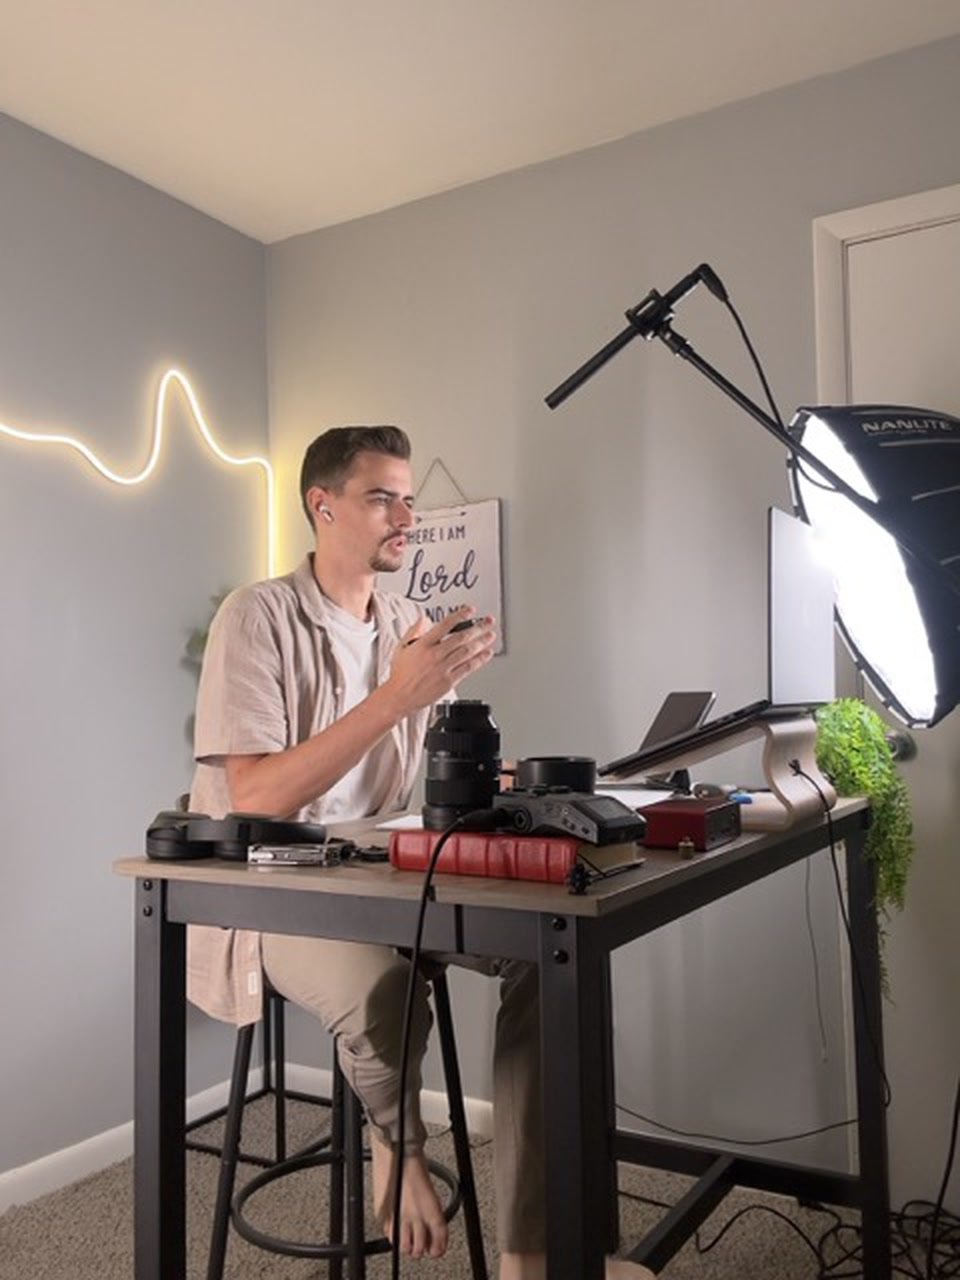
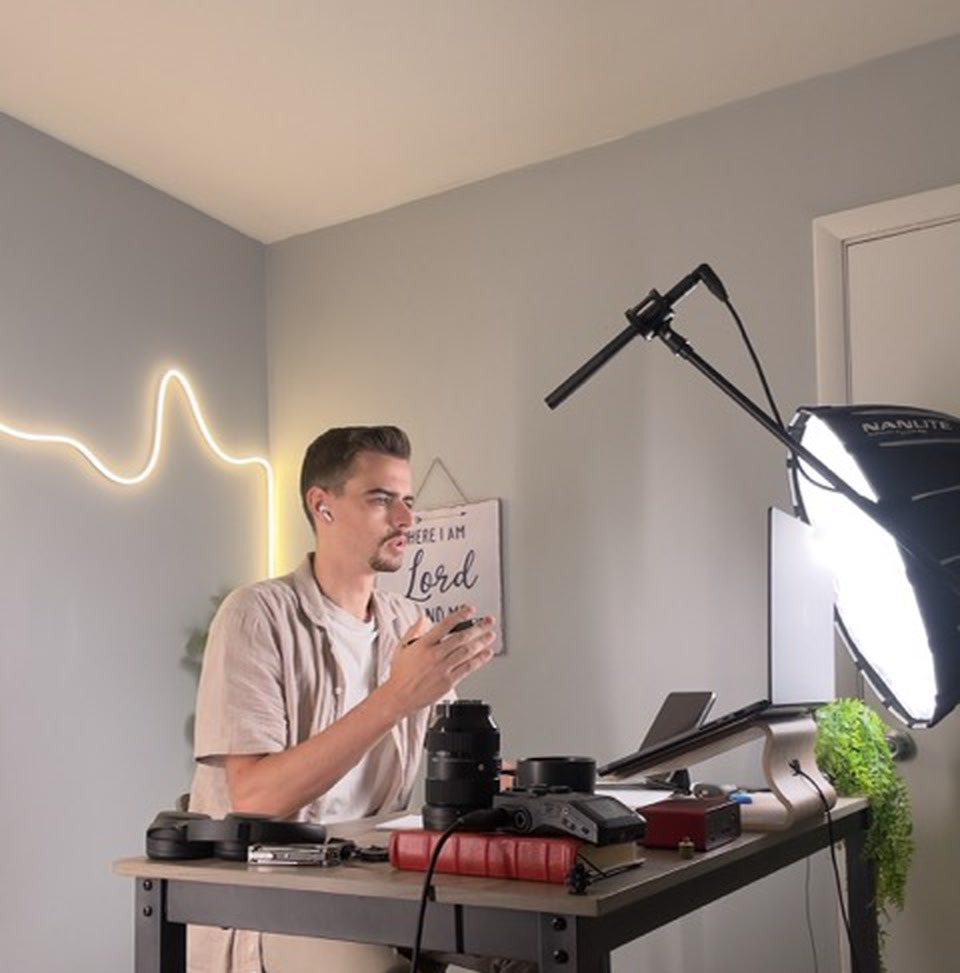
fix(resources): crop Tune-in photo so feet and stool are out
Replace tabor-speaking.jpg with the 960x973 desk crop Tabor asked for. Keep the same path and do not restore the full-length frame.

diff --git a/public/assets/site.css b/public/assets/site.css
@@ -379,13 +379,13 @@ textarea::placeholder{color:#72796f}
 .channel-links small{font-size:14px;color:var(--muted)}
 .channel-links>a:hover{color:var(--blue)}
 .watch-image{border-radius:var(--radius);overflow:hidden}
-.watch-image img{width:100%;aspect-ratio:3/4;object-fit:contain;object-position:center}
+.watch-image img{width:100%;aspect-ratio:960/973;object-fit:contain;object-position:center}
 .watch-image figcaption{padding:16px 0;font-size:14px;color:var(--muted)}
 
 @media(min-width:1700px){.hero-portrait{min-height:655px}}
 @media(max-width:1180px){.primary-nav{gap:22px}.wordmark{font-size:19px}.wordmark img{width:30px;height:30px}.header-shell{gap:18px}.button--small{gap:10px;padding-inline:13px;font-size:14px}.hero{gap:35px}.hero-portrait{min-height:540px}.hero h1{font-size:clamp(52px,5.4vw,68px)}.coaching-layout,.connection-layout,.teaser-layout{gap:50px}.pitch-surface{gap:45px}.footer-main{gap:30px}.course-workspace{grid-template-columns:240px 1fr}.resource-hero{gap:60px}}
 @media(max-width:1023px){:root{--header:74px}.primary-nav,.header-cta{display:none}.mobile-menu-button{display:flex}.wordmark{font-size:21px}.wordmark img{width:34px;height:34px}.hero{grid-template-columns:1.15fr .85fr;gap:30px;padding-top:30px}.hero h1{font-size:clamp(43px,5.5vw,57px)}.hero-portrait{min-height:490px}.hero-support{font-size:19px}.hero .eyebrow{margin-bottom:22px}.hero-context{font-size:13px}.section{padding-block:86px}.pitch-section{padding-bottom:15px}.contact-section{padding-top:0}.field-layout,.section-heading,.senders-layout,.directory-heading{gap:40px;grid-template-columns:.75fr 1.25fr}.field-intro h2{font-size:42px}.field-statement>span{font-size:32px}.pitch-surface{padding:35px;grid-template-columns:.8fr 1.2fr;gap:32px}.pitch-copy h2{font-size:38px}.pitch-media>.eyebrow{margin-bottom:35px}.pitch-copy .lead{font-size:21px}.coaching-layout{gap:40px}.question-row summary h3{font-size:23px}.question-answer{font-size:16px;padding-right:20px}.current-help{gap:30px}.current-help article{gap:13px}.current-help h3{font-size:22px}.connection-layout{gap:35px}.connection-copy h2{font-size:43px}.partner-copy{padding:22px}.teaser-layout{gap:40px}.teaser-copy h2{font-size:43px}.faq-layout{gap:45px}.faq-layout h2{font-size:39px}.contact-surface{padding:35px;gap:35px}.contact-copy h2{font-size:44px}.contact-copy>p:not(.eyebrow){font-size:18px}.choice-chip span{font-size:13px;padding:11px 13px}.footer-main{grid-template-columns:1.2fr 1fr;gap:40px}.academy-hero{gap:40px}.academy-hero h1{font-size:56px}.academy-hero .lead{font-size:19px}.course-workspace{grid-template-columns:210px 1fr}.course-map{padding:25px 12px}.course-tab{padding:16px 10px;gap:12px}.module-work{grid-template-columns:1fr}.module-work>img{aspect-ratio:2.3;max-height:180px}.module-work ul{margin-top:12px;display:grid;grid-template-columns:1fr 1fr;gap:0 24px}.learning-rhythm{gap:40px}.resource-hero{gap:40px}.resource-hero h1{font-size:54px}.guide-cover{min-height:460px;padding:35px}.guide-inside{grid-template-columns:1fr;gap:25px}.watch-layout{gap:40px}}
-@media(max-width:740px){:root{--gutter:22px;--header:70px;--section-radius:30px;--radius:21px}body{font-size:17px}h2{font-size:41px}.section{padding-block:65px}.hero{grid-template-columns:1fr;gap:27px;padding-top:22px}.hero-copy{padding:5px 0 0}.hero h1{font-size:clamp(43px,8.8vw,63px);letter-spacing:-.05em}.hero h1 br:nth-of-type(3){display:none}.hero .eyebrow{margin-bottom:22px;font-size:14px}.hero-support{font-size:19px;margin-top:21px;max-width:33ch}.hero .button{margin-top:22px}.hero-context{margin-top:15px;font-size:13px}.hero-portrait{height:auto;min-height:0;aspect-ratio:1.18}.hero-portrait>img{object-fit:cover;object-position:50% 10%;height:auto;width:100%;position:static;margin-top:0;aspect-ratio:1.18}.hero-portrait figcaption{left:13px;right:13px;bottom:13px;padding:13px 15px;font-size:17px}.hero-portrait figcaption>a{width:39px;height:39px}.hero-scroll{padding:1px 0 20px}.field-layout{grid-template-columns:1fr;gap:38px}.field-intro h2{font-size:40px;margin-top:22px}.field-intro h2 br{display:none}.field-intro>p:last-child{max-width:30ch;font-size:18px;margin-top:18px}.field-statement{padding-left:23px;padding-bottom:26px}.field-statement>span{font-size:31px}.field-statement>small{font-size:16px;max-width:32ch}.voices-section{padding-top:30px;border-radius:30px}.voices-top{align-items:start;gap:15px}.voices-top .eyebrow{font-size:12px;gap:7px}.voices-top .eyebrow::before{width:5px;height:5px}.voices-top>div>p+p{font-size:12px}.quote-toggle{font-size:0;gap:0;padding:0}.quote-toggle>span{font-size:14px;width:38px;height:38px}.quote-viewport{gap:26px;padding-bottom:22px}.quote-card{flex-basis:83%;padding-right:22px;min-height:235px}.quote-card>p{font-size:26px}.quote-card footer{font-size:14px}.voices-bottom{font-size:11px;gap:15px}.voices-bottom>span:last-child{display:none}.pitch-section{padding-bottom:10px}.pitch-surface{grid-template-columns:1fr;padding:28px;gap:29px}.pitch-copy{grid-row:1}.pitch-copy h2{font-size:39px;margin-bottom:24px}.pitch-copy .lead{font-size:21px}.pitch-copy p:not(.lead){font-size:17px}.pitch-media>.eyebrow{margin-bottom:20px}.pitch-media{display:flex;flex-direction:column}.pitch-media .story-card{order:1}.pitch-signature{font-size:21px;max-width:24ch;margin-top:0;margin-bottom:23px}.story-poster>img{width:100%;aspect-ratio:1.55;object-position:70% 0}.section-heading{grid-template-columns:1fr;gap:22px;margin-bottom:35px}.section-heading>div>p{margin-top:21px;font-size:18px}.section-heading>.eyebrow{padding-top:0}.coaching-layout{grid-template-columns:1fr;gap:30px}.coaching-photo{display:none}.question-row summary{min-height:87px;padding-block:23px;gap:12px}.question-row summary h3{font-size:24px}.row-number{min-width:20px}.question-answer{padding-left:32px;font-size:17px}.current-help{grid-template-columns:1fr;gap:0;margin-top:37px}.current-help article{gap:18px;padding-block:27px}.current-help article+article{border-top:1px solid var(--line)}.current-help article p:last-child{font-size:16px}.connection-section{padding-block:55px}.connection-layout{grid-template-columns:1fr;gap:38px}.connection-copy h2{font-size:45px}.connection-copy>p:not(.eyebrow){font-size:18px}.partner-copy{padding:25px}.partner-copy h3{font-size:31px}.teaser-layout{grid-template-columns:1fr;gap:29px}.teaser-copy{grid-row:1}.teaser-copy h2{font-size:42px}.teaser-image img{aspect-ratio:1.5;object-position:60% 0}.senders-section{padding-block:48px}.senders-layout{grid-template-columns:1fr;gap:23px}.senders-layout>.eyebrow{padding-top:0}.senders-layout h2{font-size:38px}.senders-layout>div>p{font-size:17px}.senders-layout .text-link{font-size:16px}.faq-layout{grid-template-columns:1fr;gap:32px}.faq-layout h2{font-size:39px}.faq-layout .question-row summary h3{font-size:22px}.faq-layout .question-answer{font-size:17px}.contact-section{padding-top:0}.contact-surface{grid-template-columns:1fr;gap:37px;padding:28px}.contact-copy h2{font-size:43px}.contact-copy h2 br:nth-of-type(2){display:none}.contact-copy>p:not(.eyebrow){max-width:30ch}.call-person{margin-top:25px}.direct-booking{margin-top:18px;font-size:13px}.intake-form{border-top:1px solid var(--line);padding-top:31px}.choice-chip span{font-size:14px;padding:11px 14px}.choice-group{gap:9px}.intake-form legend,.question-label{font-size:17px}.form-note{font-size:12px}.contact-surface .button{font-size:16px;padding-inline:17px}.footer-main{grid-template-columns:1fr 1fr;gap:35px 23px;padding-top:35px;padding-bottom:35px}.footer-brand{grid-column:1/-1}.footer-brand>p{max-width:28ch;font-size:18px;margin-top:17px}.footer-main nav>a{min-height:40px;padding-block:9px;font-size:14px}.footer-main small{display:block;margin-left:0}.footer-label{margin-bottom:12px}.footer-pending{min-height:40px;padding-block:9px}.footer-bottom{font-size:11px;gap:16px;align-items:flex-start}.footer-bottom>a{white-space:nowrap;padding-top:0}.video-dialog{padding:16px;width:calc(100% - 20px);border-radius:18px}.video-dialog__header h2{font-size:20px}.video-dialog__header{gap:10px}.video-dialog__header button{font-size:0;gap:0}.video-dialog__header button span{font-size:28px}.video-dialog>p{display:block;font-size:13px}.video-dialog>p>a{display:block;margin-top:8px}.academy-hero{grid-template-columns:1fr;gap:35px;padding-top:34px;padding-bottom:45px}.academy-hero h1{font-size:55px}.academy-hero .lead{font-size:20px;margin-top:24px}.academy-hero-media>img{aspect-ratio:1.4}.academy-hero-media>figcaption{font-size:14px}.academy-hero-media>figcaption span{font-size:12px}.academy-intro{padding-block:50px}.academy-intro .section-heading h2{font-size:37px}.course-heading{display:block;margin-bottom:30px}.course-heading>p{margin-top:20px;max-width:37ch;font-size:16px}.course-heading h2{font-size:41px}.course-workspace{grid-template-columns:1fr;border-radius:21px}.course-map{padding:23px 17px 15px}.course-map-label{padding:0 8px 17px}.course-map [role=tablist]{display:grid;grid-template-columns:repeat(3,1fr);gap:4px}.course-tab{display:flex;flex-direction:column;gap:4px;text-align:center;padding:11px 7px;min-height:65px;justify-content:center}.course-tab strong{font-size:16px}.course-tab small{display:none}.course-tab>span:first-child{font-size:11px}.module-panel{padding:25px}.module-panel h3{font-size:31px}.module-panel>.module-description{font-size:17px}.module-work{gap:23px}.module-work>img{aspect-ratio:1.6;max-height:none}.module-work ul{display:block;font-size:17px}.course-footnote{display:block;font-size:13px}.course-footnote>a{display:inline-block;margin-top:15px;white-space:normal}.learning-rhythm{grid-template-columns:1fr;gap:37px}.rhythm-copy h2{font-size:41px}.rhythm-steps>article{padding-block:25px}.rhythm-steps h3{font-size:26px}.path-row{grid-template-columns:26px 1fr;gap:12px 17px;padding-block:27px}.path-row>p{grid-column:2;font-size:17px}.path-row h3{font-size:28px}.small-callout{grid-template-columns:1fr;gap:25px}.small-callout>.eyebrow{margin-bottom:0}.small-callout h2{font-size:41px}.small-callout>div>p{font-size:19px;max-width:33ch}.resource-hero{grid-template-columns:1fr;gap:32px;padding-top:34px;padding-bottom:48px}.resource-hero h1{font-size:52px}.resource-hero .lead{font-size:20px}.guide-cover{min-height:447px}.guide-cover img{width:244px}.guide-inside{padding-block:30px;gap:25px}.guide-inside ol{display:grid;grid-template-columns:1fr 1fr;gap:24px}.guide-inside li{min-width:0;font-size:15px}.directory-heading{grid-template-columns:1fr;gap:23px;margin-bottom:28px}.directory-heading>.eyebrow{margin-top:0}.directory-heading h2{font-size:40px}.directory-heading>div>p{font-size:17px;margin-top:22px}.resource-filters{flex-direction:column;align-items:stretch;gap:20px;padding-top:0}.resource-search{max-width:none}.filter-tabs{gap:27px}.resource-grid{grid-template-columns:1fr;gap:0}.resource-item{min-height:109px;padding-block:23px;gap:15px;grid-template-columns:42px 1fr 20px}.resource-icon{width:40px;height:40px}.resource-item h3{font-size:23px}.resource-item p{font-size:15px}.watch-layout{grid-template-columns:1fr;gap:32px}.watch-copy h2{font-size:41px}.watch-image img{aspect-ratio:3/4;object-fit:contain;object-position:center}.channel-links>a,.channel-links>div{font-size:21px;gap:20px}.channel-links small{font-size:13px}}
+@media(max-width:740px){:root{--gutter:22px;--header:70px;--section-radius:30px;--radius:21px}body{font-size:17px}h2{font-size:41px}.section{padding-block:65px}.hero{grid-template-columns:1fr;gap:27px;padding-top:22px}.hero-copy{padding:5px 0 0}.hero h1{font-size:clamp(43px,8.8vw,63px);letter-spacing:-.05em}.hero h1 br:nth-of-type(3){display:none}.hero .eyebrow{margin-bottom:22px;font-size:14px}.hero-support{font-size:19px;margin-top:21px;max-width:33ch}.hero .button{margin-top:22px}.hero-context{margin-top:15px;font-size:13px}.hero-portrait{height:auto;min-height:0;aspect-ratio:1.18}.hero-portrait>img{object-fit:cover;object-position:50% 10%;height:auto;width:100%;position:static;margin-top:0;aspect-ratio:1.18}.hero-portrait figcaption{left:13px;right:13px;bottom:13px;padding:13px 15px;font-size:17px}.hero-portrait figcaption>a{width:39px;height:39px}.hero-scroll{padding:1px 0 20px}.field-layout{grid-template-columns:1fr;gap:38px}.field-intro h2{font-size:40px;margin-top:22px}.field-intro h2 br{display:none}.field-intro>p:last-child{max-width:30ch;font-size:18px;margin-top:18px}.field-statement{padding-left:23px;padding-bottom:26px}.field-statement>span{font-size:31px}.field-statement>small{font-size:16px;max-width:32ch}.voices-section{padding-top:30px;border-radius:30px}.voices-top{align-items:start;gap:15px}.voices-top .eyebrow{font-size:12px;gap:7px}.voices-top .eyebrow::before{width:5px;height:5px}.voices-top>div>p+p{font-size:12px}.quote-toggle{font-size:0;gap:0;padding:0}.quote-toggle>span{font-size:14px;width:38px;height:38px}.quote-viewport{gap:26px;padding-bottom:22px}.quote-card{flex-basis:83%;padding-right:22px;min-height:235px}.quote-card>p{font-size:26px}.quote-card footer{font-size:14px}.voices-bottom{font-size:11px;gap:15px}.voices-bottom>span:last-child{display:none}.pitch-section{padding-bottom:10px}.pitch-surface{grid-template-columns:1fr;padding:28px;gap:29px}.pitch-copy{grid-row:1}.pitch-copy h2{font-size:39px;margin-bottom:24px}.pitch-copy .lead{font-size:21px}.pitch-copy p:not(.lead){font-size:17px}.pitch-media>.eyebrow{margin-bottom:20px}.pitch-media{display:flex;flex-direction:column}.pitch-media .story-card{order:1}.pitch-signature{font-size:21px;max-width:24ch;margin-top:0;margin-bottom:23px}.story-poster>img{width:100%;aspect-ratio:1.55;object-position:70% 0}.section-heading{grid-template-columns:1fr;gap:22px;margin-bottom:35px}.section-heading>div>p{margin-top:21px;font-size:18px}.section-heading>.eyebrow{padding-top:0}.coaching-layout{grid-template-columns:1fr;gap:30px}.coaching-photo{display:none}.question-row summary{min-height:87px;padding-block:23px;gap:12px}.question-row summary h3{font-size:24px}.row-number{min-width:20px}.question-answer{padding-left:32px;font-size:17px}.current-help{grid-template-columns:1fr;gap:0;margin-top:37px}.current-help article{gap:18px;padding-block:27px}.current-help article+article{border-top:1px solid var(--line)}.current-help article p:last-child{font-size:16px}.connection-section{padding-block:55px}.connection-layout{grid-template-columns:1fr;gap:38px}.connection-copy h2{font-size:45px}.connection-copy>p:not(.eyebrow){font-size:18px}.partner-copy{padding:25px}.partner-copy h3{font-size:31px}.teaser-layout{grid-template-columns:1fr;gap:29px}.teaser-copy{grid-row:1}.teaser-copy h2{font-size:42px}.teaser-image img{aspect-ratio:1.5;object-position:60% 0}.senders-section{padding-block:48px}.senders-layout{grid-template-columns:1fr;gap:23px}.senders-layout>.eyebrow{padding-top:0}.senders-layout h2{font-size:38px}.senders-layout>div>p{font-size:17px}.senders-layout .text-link{font-size:16px}.faq-layout{grid-template-columns:1fr;gap:32px}.faq-layout h2{font-size:39px}.faq-layout .question-row summary h3{font-size:22px}.faq-layout .question-answer{font-size:17px}.contact-section{padding-top:0}.contact-surface{grid-template-columns:1fr;gap:37px;padding:28px}.contact-copy h2{font-size:43px}.contact-copy h2 br:nth-of-type(2){display:none}.contact-copy>p:not(.eyebrow){max-width:30ch}.call-person{margin-top:25px}.direct-booking{margin-top:18px;font-size:13px}.intake-form{border-top:1px solid var(--line);padding-top:31px}.choice-chip span{font-size:14px;padding:11px 14px}.choice-group{gap:9px}.intake-form legend,.question-label{font-size:17px}.form-note{font-size:12px}.contact-surface .button{font-size:16px;padding-inline:17px}.footer-main{grid-template-columns:1fr 1fr;gap:35px 23px;padding-top:35px;padding-bottom:35px}.footer-brand{grid-column:1/-1}.footer-brand>p{max-width:28ch;font-size:18px;margin-top:17px}.footer-main nav>a{min-height:40px;padding-block:9px;font-size:14px}.footer-main small{display:block;margin-left:0}.footer-label{margin-bottom:12px}.footer-pending{min-height:40px;padding-block:9px}.footer-bottom{font-size:11px;gap:16px;align-items:flex-start}.footer-bottom>a{white-space:nowrap;padding-top:0}.video-dialog{padding:16px;width:calc(100% - 20px);border-radius:18px}.video-dialog__header h2{font-size:20px}.video-dialog__header{gap:10px}.video-dialog__header button{font-size:0;gap:0}.video-dialog__header button span{font-size:28px}.video-dialog>p{display:block;font-size:13px}.video-dialog>p>a{display:block;margin-top:8px}.academy-hero{grid-template-columns:1fr;gap:35px;padding-top:34px;padding-bottom:45px}.academy-hero h1{font-size:55px}.academy-hero .lead{font-size:20px;margin-top:24px}.academy-hero-media>img{aspect-ratio:1.4}.academy-hero-media>figcaption{font-size:14px}.academy-hero-media>figcaption span{font-size:12px}.academy-intro{padding-block:50px}.academy-intro .section-heading h2{font-size:37px}.course-heading{display:block;margin-bottom:30px}.course-heading>p{margin-top:20px;max-width:37ch;font-size:16px}.course-heading h2{font-size:41px}.course-workspace{grid-template-columns:1fr;border-radius:21px}.course-map{padding:23px 17px 15px}.course-map-label{padding:0 8px 17px}.course-map [role=tablist]{display:grid;grid-template-columns:repeat(3,1fr);gap:4px}.course-tab{display:flex;flex-direction:column;gap:4px;text-align:center;padding:11px 7px;min-height:65px;justify-content:center}.course-tab strong{font-size:16px}.course-tab small{display:none}.course-tab>span:first-child{font-size:11px}.module-panel{padding:25px}.module-panel h3{font-size:31px}.module-panel>.module-description{font-size:17px}.module-work{gap:23px}.module-work>img{aspect-ratio:1.6;max-height:none}.module-work ul{display:block;font-size:17px}.course-footnote{display:block;font-size:13px}.course-footnote>a{display:inline-block;margin-top:15px;white-space:normal}.learning-rhythm{grid-template-columns:1fr;gap:37px}.rhythm-copy h2{font-size:41px}.rhythm-steps>article{padding-block:25px}.rhythm-steps h3{font-size:26px}.path-row{grid-template-columns:26px 1fr;gap:12px 17px;padding-block:27px}.path-row>p{grid-column:2;font-size:17px}.path-row h3{font-size:28px}.small-callout{grid-template-columns:1fr;gap:25px}.small-callout>.eyebrow{margin-bottom:0}.small-callout h2{font-size:41px}.small-callout>div>p{font-size:19px;max-width:33ch}.resource-hero{grid-template-columns:1fr;gap:32px;padding-top:34px;padding-bottom:48px}.resource-hero h1{font-size:52px}.resource-hero .lead{font-size:20px}.guide-cover{min-height:447px}.guide-cover img{width:244px}.guide-inside{padding-block:30px;gap:25px}.guide-inside ol{display:grid;grid-template-columns:1fr 1fr;gap:24px}.guide-inside li{min-width:0;font-size:15px}.directory-heading{grid-template-columns:1fr;gap:23px;margin-bottom:28px}.directory-heading>.eyebrow{margin-top:0}.directory-heading h2{font-size:40px}.directory-heading>div>p{font-size:17px;margin-top:22px}.resource-filters{flex-direction:column;align-items:stretch;gap:20px;padding-top:0}.resource-search{max-width:none}.filter-tabs{gap:27px}.resource-grid{grid-template-columns:1fr;gap:0}.resource-item{min-height:109px;padding-block:23px;gap:15px;grid-template-columns:42px 1fr 20px}.resource-icon{width:40px;height:40px}.resource-item h3{font-size:23px}.resource-item p{font-size:15px}.watch-layout{grid-template-columns:1fr;gap:32px}.watch-copy h2{font-size:41px}.watch-image img{aspect-ratio:960/973;object-fit:contain;object-position:center}.channel-links>a,.channel-links>div{font-size:21px;gap:20px}.channel-links small{font-size:13px}}
 @media(max-width:370px){:root{--gutter:18px}.wordmark{font-size:19px;gap:8px}.wordmark img{width:29px;height:29px}.hero h1{font-size:42px}.hero-support{font-size:18px}.hero-portrait figcaption{padding:11px 12px;font-size:16px}.hero-portrait figcaption small{font-size:12px}.pitch-surface,.contact-surface{padding:23px}.pitch-copy h2{font-size:34px}.contact-copy h2{font-size:38px}.connection-copy h2{font-size:40px}.course-tab strong{font-size:15px}.module-panel{padding:22px}.academy-hero h1{font-size:47px}.resource-hero h1{font-size:47px}.guide-cover{min-height:413px}.guide-cover img{width:218px}.footer-main{grid-template-columns:1fr 1fr}.footer-main nav>a{font-size:13px}}
 @media(prefers-reduced-motion:reduce){html{scroll-behavior:auto}*,*::before,*::after{animation:none!important;transition:none!important;scroll-behavior:auto!important}.story-card:hover img,.partner-card:hover img,.guide-cover img,.guide-cover:hover img{transform:none}.dropdown-panel,.dropdown-panel.is-open{transform:translateX(-50%)}}
 
@@ -1044,7 +1044,7 @@ main{overflow-x:clip}
 .menu-channel-icon{width:86px;height:86px;background:#dce9f5;color:#1760af;border-radius:14px;display:grid;place-items:center}
 .menu-channel-icon svg{width:35px;height:35px;fill:currentColor}
 .watch-image{max-width:480px;margin-inline:auto;width:100%}
-.watch-image img{aspect-ratio:3/4;object-fit:contain;object-position:center;border-radius:var(--radius)}
+.watch-image img{aspect-ratio:960/973;object-fit:contain;object-position:center;border-radius:var(--radius)}
 @media(max-width:1179px){
  .academy-library-grid{grid-template-columns:repeat(2,minmax(0,1fr))}
  .academy-library-grid>.library-course:last-child:nth-child(2n+1){grid-column:1/-1;width:calc((100% - 22px)/2);justify-self:center}
@@ -1087,7 +1087,7 @@ main{overflow-x:clip}
  .academy-library{padding-bottom:115px}
  .course-backdrop{inset:-30px 0 0}
  .watch-image{max-width:480px;margin-inline:auto;width:100%}
- .watch-image img{aspect-ratio:3/4;object-fit:contain;object-position:center}
+ .watch-image img{aspect-ratio:960/973;object-fit:contain;object-position:center}
 }
 @media(max-width:370px){
  .academy-summary-grid{grid-template-columns:1fr}

diff --git a/public/resources/index.html b/public/resources/index.html
@@ -19,7 +19,7 @@
   <link rel="icon" href="/assets/missionary-media-favicon.png" type="image/png">
   <link rel="preload" href="/assets/fonts/source-sans-3/SourceSans3-Regular.ttf.woff2" as="font" type="font/woff2" crossorigin>
   <link rel="preload" href="/assets/fonts/source-sans-3/SourceSans3-Semibold.ttf.woff2" as="font" type="font/woff2" crossorigin>
-  <link rel="stylesheet" href="/assets/site.css?v=d99b7aef9285">
+  <link rel="stylesheet" href="/assets/site.css?v=11397b3a6e90">
   <script src="/assets/site.js?v=4d0423583579" defer></script>
 </head>
 <body class="page-resources" id="top">
@@ -101,7 +101,7 @@ working on?</h2><p>Start with the task in front of you. Find a tool, a template,
 </div></section>
 
 <section class="watch-section section" id="watch" aria-labelledby="watch-title"><div class="shell watch-layout"><div class="watch-copy"><p class="eyebrow">Tune in to Missionary Media</p><h2 id="watch-title" data-reveal>A little learning<br>
-for the work ahead.</h2><p>Listen to the podcast or watch a short video. Find an idea you can bring to your own ministry.</p><div class="channel-links"><a href="https://www.youtube.com/@MissionaryMediaHub/podcasts" target="_blank" rel="noopener noreferrer"><span>Podcasts <small>On YouTube</small></span><span aria-hidden="true">↗</span></a><a href="https://www.youtube.com/@MissionaryMediaHub/shorts" target="_blank" rel="noopener noreferrer"><span>Short videos <small>On YouTube</small></span><span aria-hidden="true">↗</span></a></div></div><figure class="watch-image" data-land><img src="/assets/resources/tabor-speaking.jpg" width="960" height="1280" alt="Tabor teaching at his desk with a microphone and studio light" loading="lazy"><figcaption>Missionary Media Hub · Teaching with Tabor</figcaption></figure></div></section>
+for the work ahead.</h2><p>Listen to the podcast or watch a short video. Find an idea you can bring to your own ministry.</p><div class="channel-links"><a href="https://www.youtube.com/@MissionaryMediaHub/podcasts" target="_blank" rel="noopener noreferrer"><span>Podcasts <small>On YouTube</small></span><span aria-hidden="true">↗</span></a><a href="https://www.youtube.com/@MissionaryMediaHub/shorts" target="_blank" rel="noopener noreferrer"><span>Short videos <small>On YouTube</small></span><span aria-hidden="true">↗</span></a></div></div><figure class="watch-image" data-land><img src="/assets/resources/tabor-speaking.jpg" width="960" height="973" alt="Tabor teaching at his desk with a microphone and studio light" loading="lazy"><figcaption>Missionary Media Hub · Teaching with Tabor</figcaption></figure></div></section>
 
 <section class="section" aria-labelledby="resource-help-title"><div class="shell small-callout"><p class="eyebrow">Talk with Tabor</p><h2 id="resource-help-title" data-reveal>Not sure which resource<br>
 fits your situation?</h2><div><p>Bring the task you’re working on. I’ll help you choose a useful starting point.</p><a class="button" href="/#start">Book a 30-minute call <span aria-hidden="true">↗</span></a></div></div></section>
